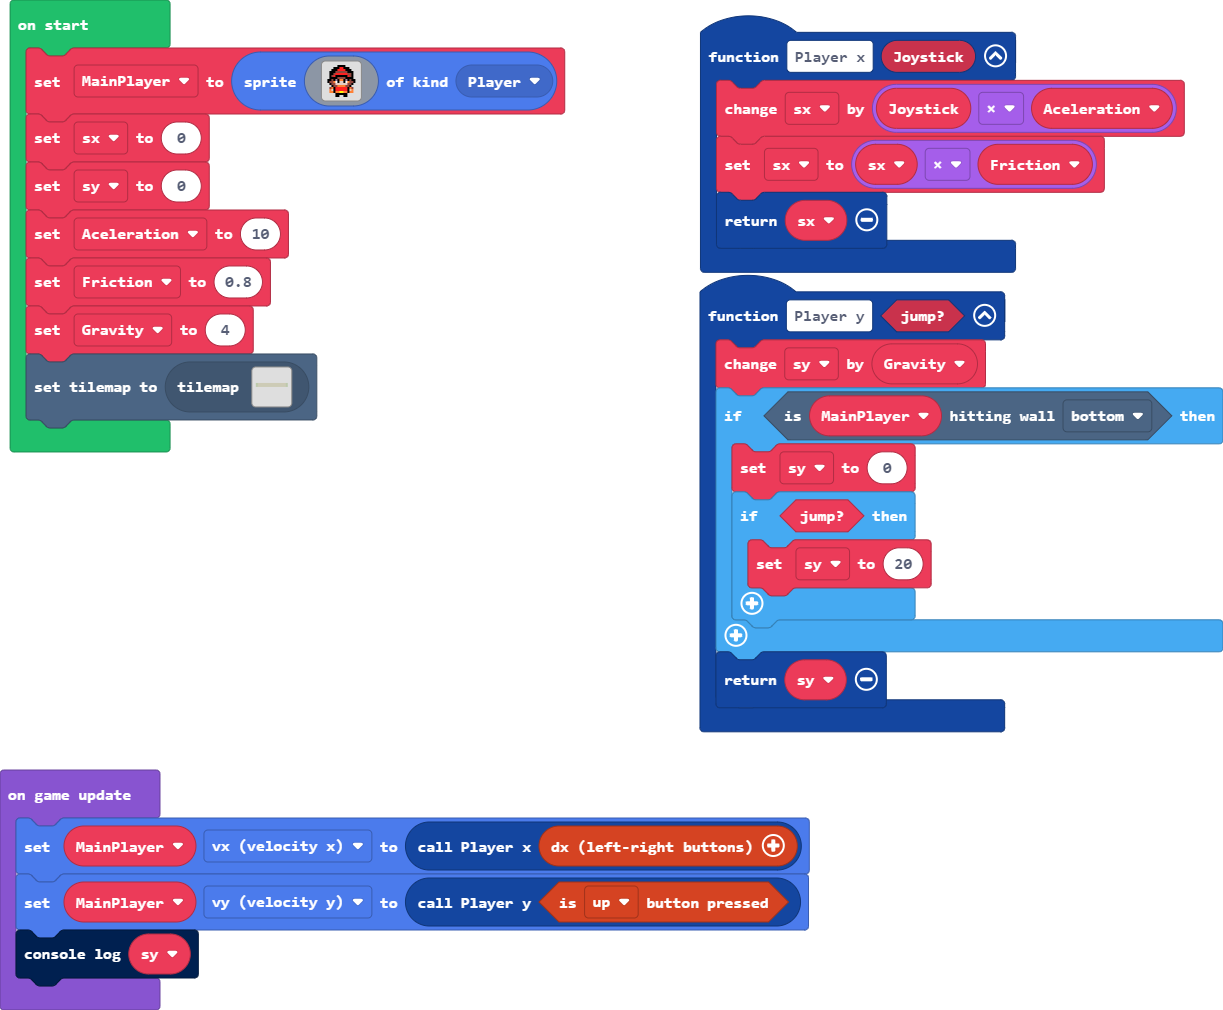
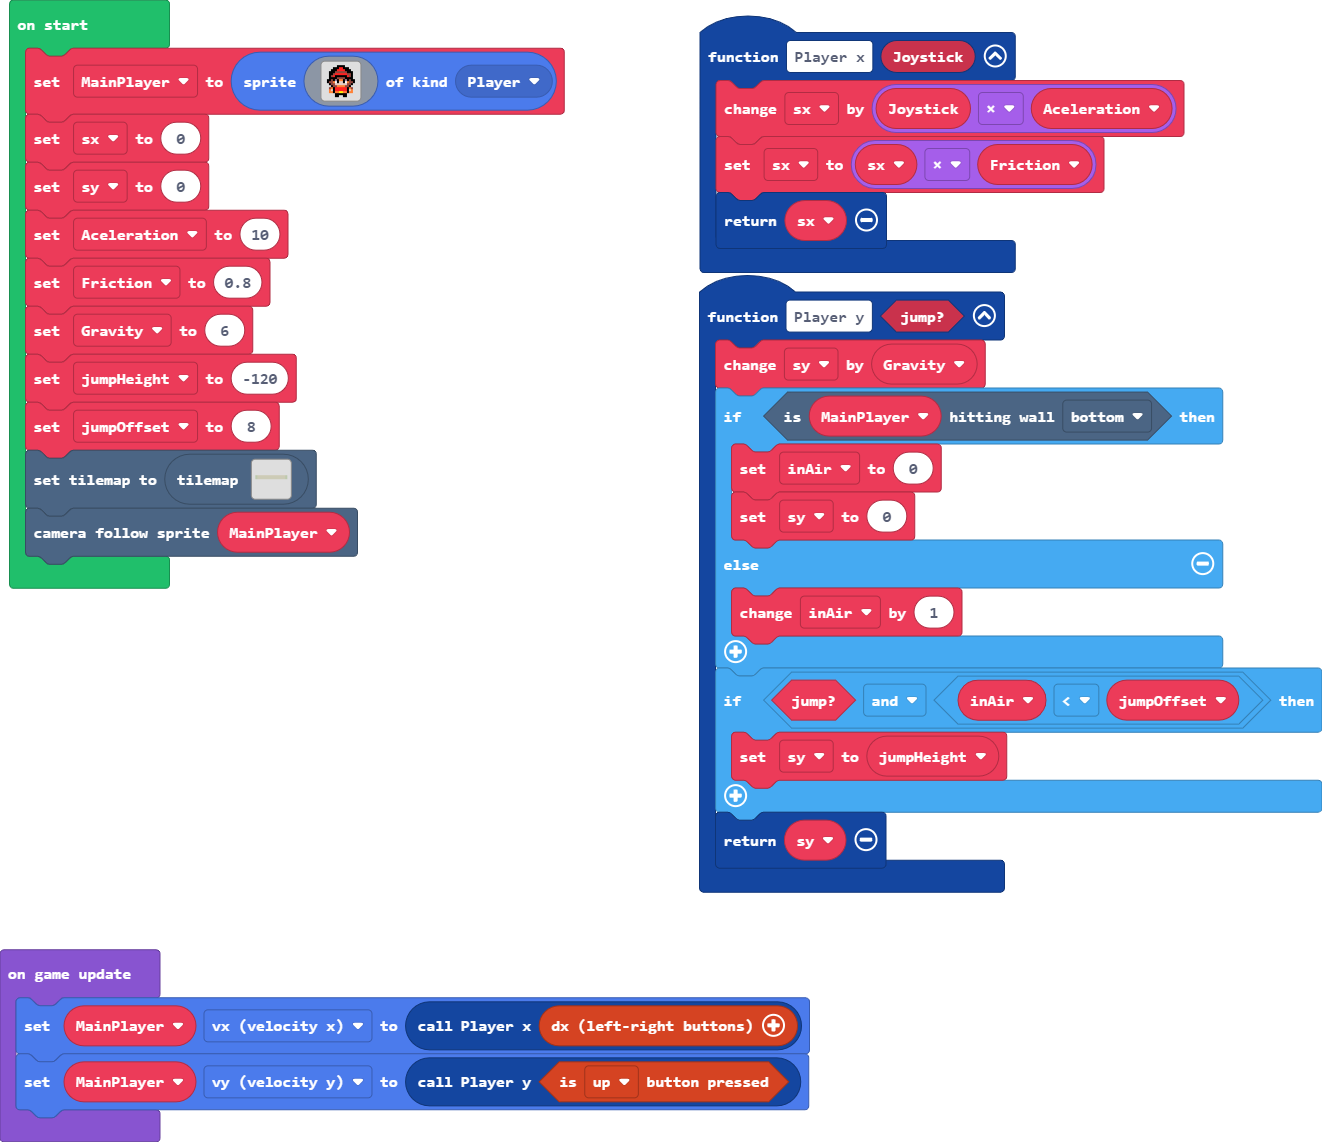
Update main.blocks, main.ts, tilemap.g.jres, tilemap.g.ts

diff --git a/tilemap.g.ts b/tilemap.g.ts
@@ -5,6 +5,25 @@ namespace myTiles {
 
     helpers._registerFactory("tilemap", function(name: string) {
         switch(helpers.stringTrim(name)) {
+            case "level2":
+            case "level2":return tiles.createTilemap(hex`1000100000000000000000000000000000000000000000000000000000000000000000000000000000000000000000000000000000000000000000000000000000000000000000000000000000000000000000000000000000000000000000000000000000000000000000000000000000000000000000000000000000000000000000000000000000000000000000000000000000000000000000000000000000000000000000000000000000000000000000000000000000000000000000000000000000000000000000000000000000000000000000000000000000000000000000000000000000000000000000000000000000000000000000000000000000000000`, img`
+. . . . . . . . . . . . . . . . 
+. . . . . . . . . . . . . . . . 
+. . . . . . . . . . . . . . . . 
+. . . . . . . . . . . . . . . . 
+. . . . . . . . . . . . . . . . 
+. . . . . . . . . . . . . . . . 
+. . . . . . . . . . . . . . . . 
+. . . . . . . . . . . . . . . . 
+. . . . . . . . . . . . . . . . 
+. . . . . . . . . . . . . . . . 
+. . . . . . . . . . . . . . . . 
+. . . . . . . . . . . . . . . . 
+. . . . . . . . . . . . . . . . 
+. . . . . . . . . . . . . . . . 
+. . . . . . . . . . . . . . . . 
+. . . . . . . . . . . . . . . . 
+`, [myTiles.transparency16], TileScale.Sixteen);
             case "level1":
             case "level1":return tiles.createTilemap(hex`1000100000000000000000000000000000000000000000000000000000000000000000000000000000000000000000000000000000000000000000000000000000000000000000000000000000000000000000000000000000000000000000000000000001020202020202020202020202020203050606060606060606060606060606040000000000000000000000000000000000000000000000000000000000000000000000000000000000000000000000000000000000000000000000000000000000000000000000000000000000000000000000000000000000000000000000000000000000000000000000000000000000000000000000000000000000000000`, img`
 . . . . . . . . . . . . . . . . 

diff --git a/main.ts b/main.ts
@@ -1,10 +1,13 @@
 function Player_y (jump: boolean) {
     sy += Gravity
     if (MainPlayer.isHittingTile(CollisionDirection.Bottom)) {
+        inAir = 0
         sy = 0
-        if (jump) {
-            sy = 20
-        }
+    } else {
+        inAir += 1
+    }
+    if (jump && inAir < jumpOffset) {
+        sy = jumpHeight
     }
     return sy
 }
@@ -13,6 +16,9 @@ function Player_x (Joystick: number) {
     sx = sx * Friction
     return sx
 }
+let inAir = 0
+let jumpOffset = 0
+let jumpHeight = 0
 let Gravity = 0
 let Friction = 0
 let Aceleration = 0
@@ -41,10 +47,12 @@ sx = 0
 sy = 0
 Aceleration = 10
 Friction = 0.8
-Gravity = 4
+Gravity = 6
+jumpHeight = -120
+jumpOffset = 8
 tiles.setCurrentTilemap(tilemap`level1`)
+scene.cameraFollowSprite(MainPlayer)
 game.onUpdate(function () {
     MainPlayer.vx = Player_x(controller.dx())
     MainPlayer.vy = Player_y(controller.up.isPressed())
-    console.log(sy)
 })
